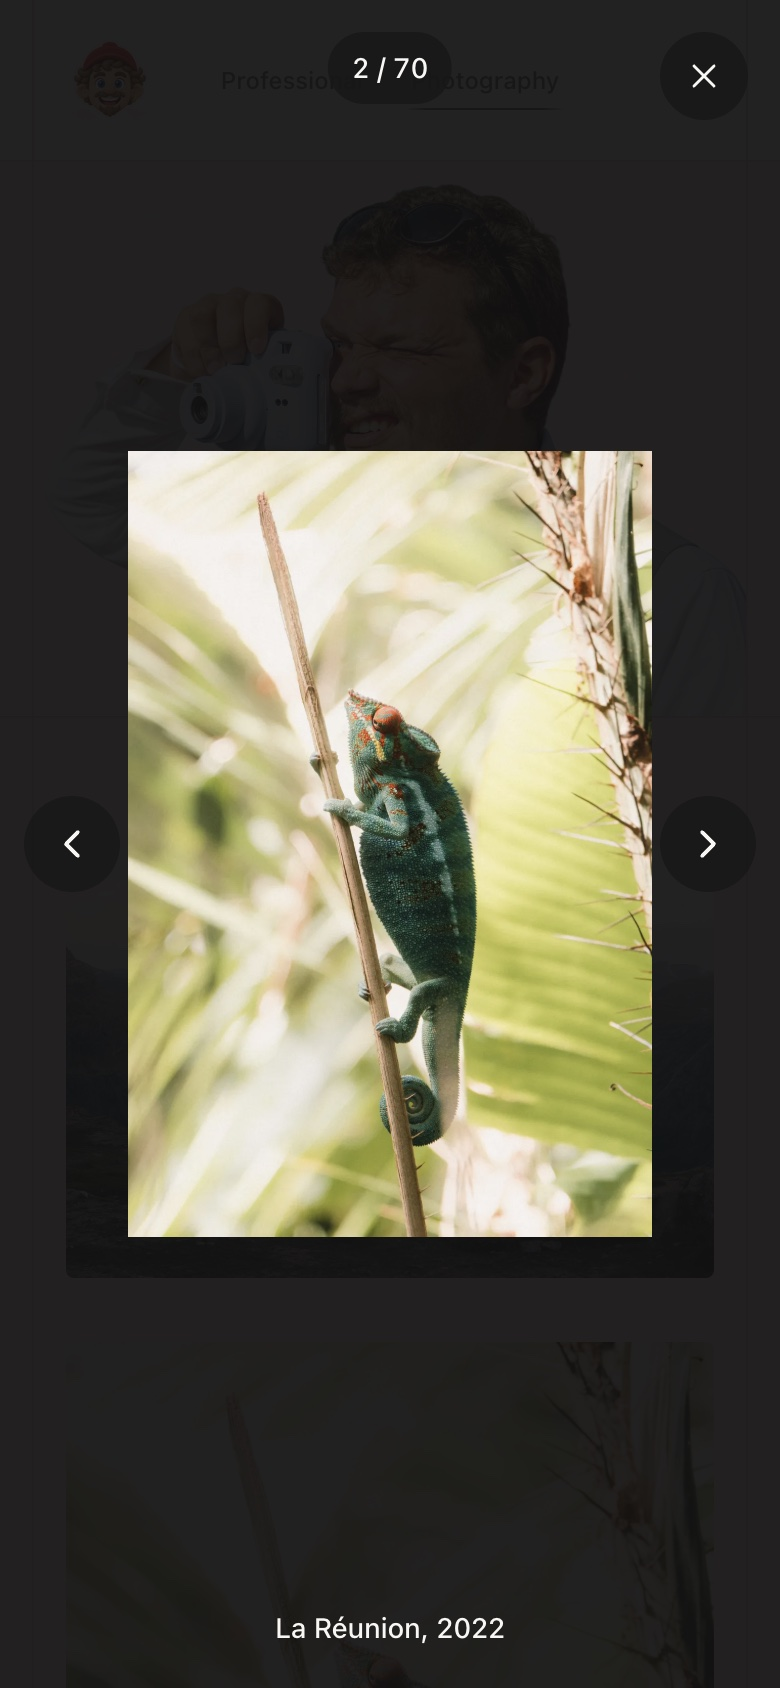
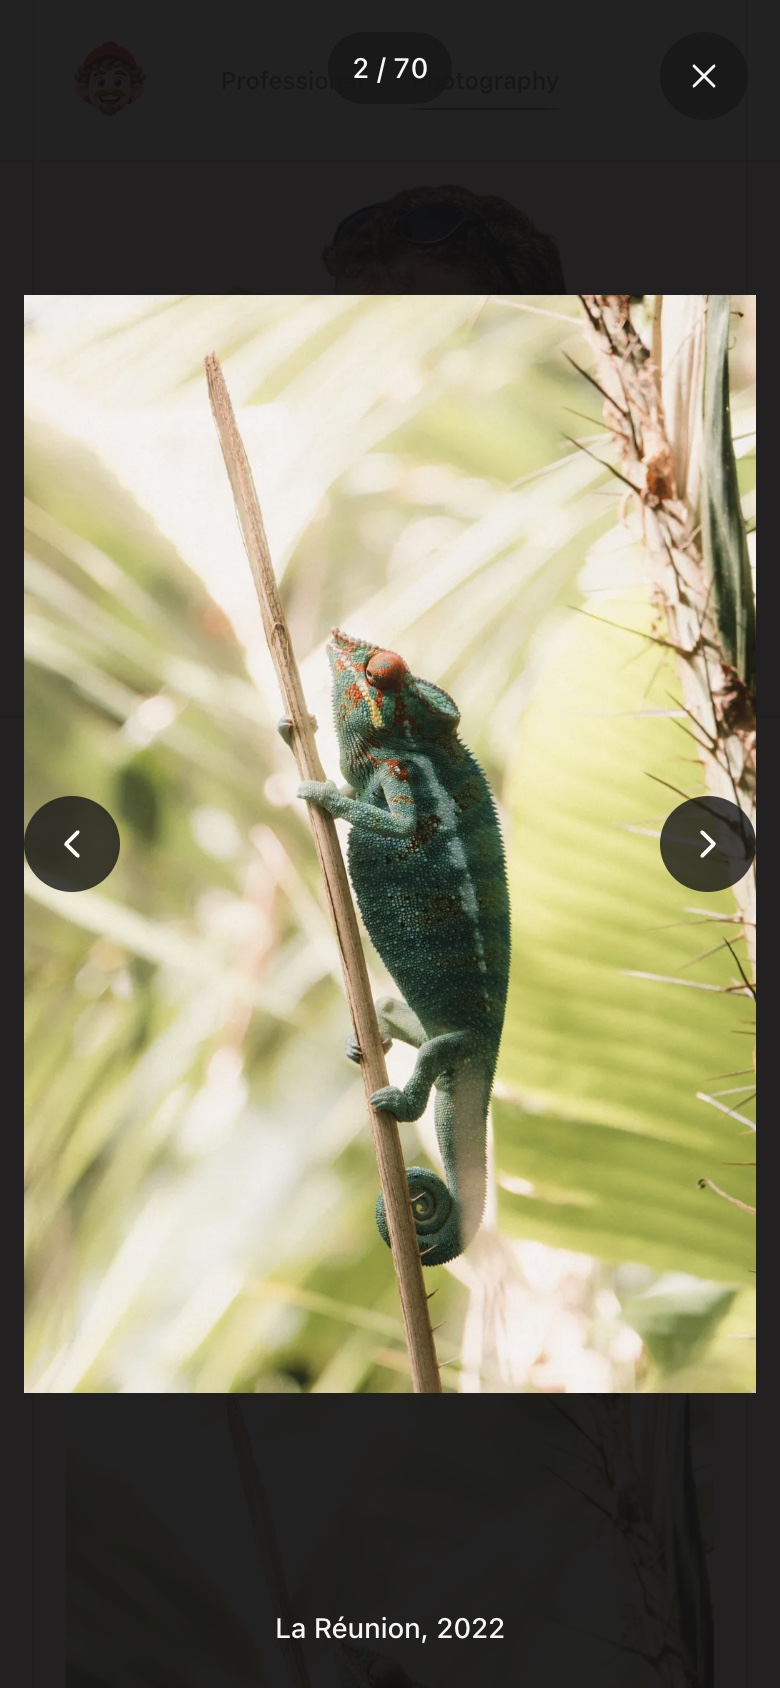
fix: enlarge mobile lightbox images

diff --git a/apps/web/src/routes/photography.tsx b/apps/web/src/routes/photography.tsx
@@ -162,7 +162,7 @@ function PhotographDialog({
           <path d="m6 6 12 12M18 6 6 18" />
         </svg>
       </Dialog.Close>
-      <div className="absolute inset-x-16 top-16 bottom-16 flex items-center justify-center sm:inset-x-20">
+      <div className="absolute inset-x-3 top-16 bottom-16 flex items-center justify-center sm:inset-x-20">
         <ModalPhotograph key={photo.src} photo={photo} />
       </div>
       <output
